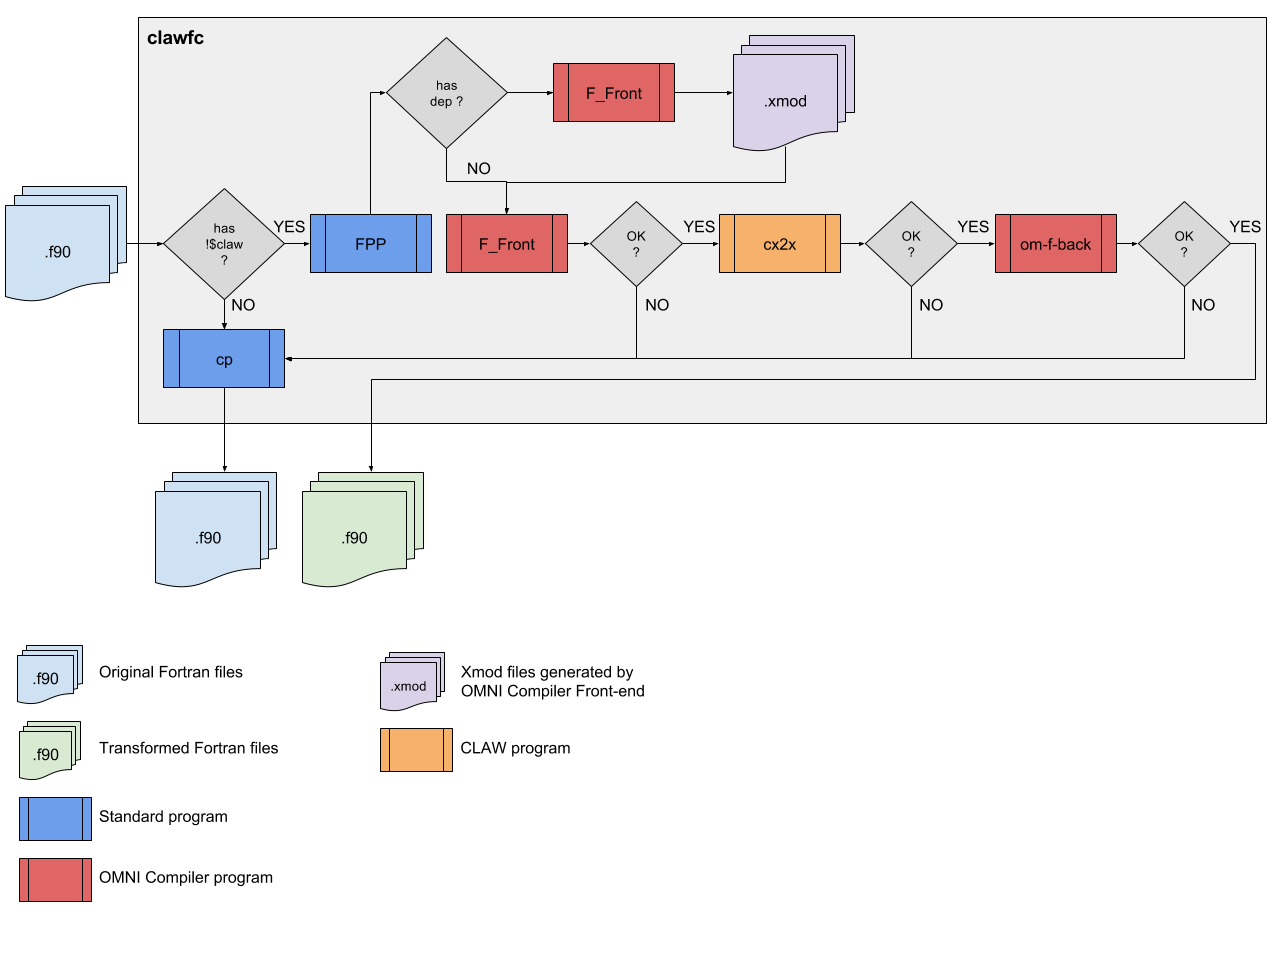
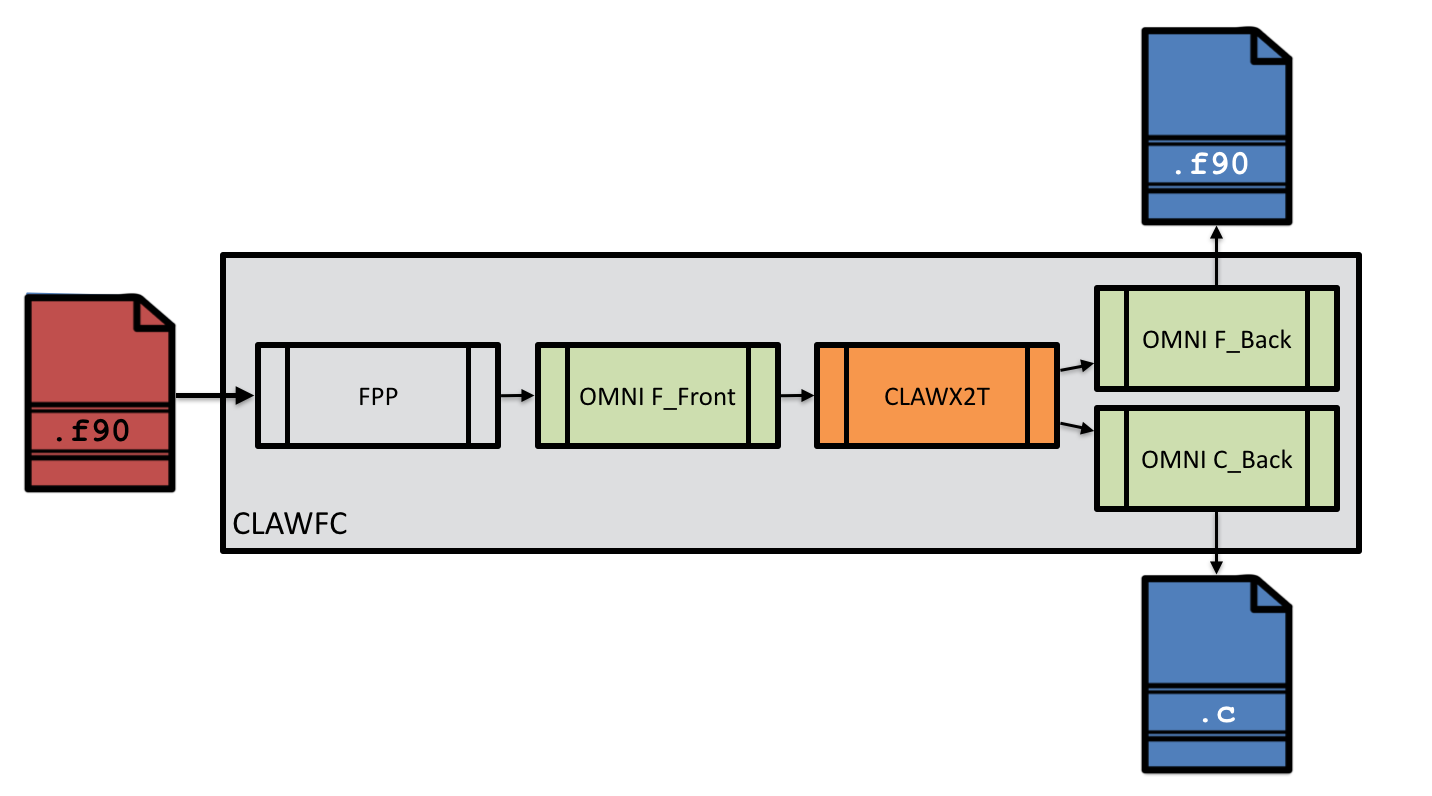
Push new figures for the README

diff --git a/README.md b/README.md
@@ -34,11 +34,17 @@ The diagram below shows the workflow of the CLAW Compiler.
 
 ##### Key components:
 * **FPP**: standard preprocessor.
-* **F_Front**: Fortran front-end. Convert Fortran program into an intermediate
-representation.
-* **cx2x**: CLAW intermediate representation translator.
-* **om-f-back**: Fortran back-end. Generates Fortran code from intermediate
-representation.
+* **OMNI F_Front**: FORTRAN front-end. Convert FORTRAN source code into an
+  intermediate representation (XcodeML/F).
+* **CLAWX2T**: CLAW XcodeML to XcodeML translator.
+* **OMNI F_Back**: FORTRAN back-end. Generates FORTRAN code from XcodeML/F
+  intermediate representation.
+* **OMNI C_Back**: C back-end. Generates C code from XcodeML/C
+  intermediate representation.
+
+### CLAWX2T Library stack overview
+
+![CLAWX2T Library stack](resource/clawx2t_stack.png)
 
 ### How to install
 See [INSTALL.md](./INSTALL.md) file.
